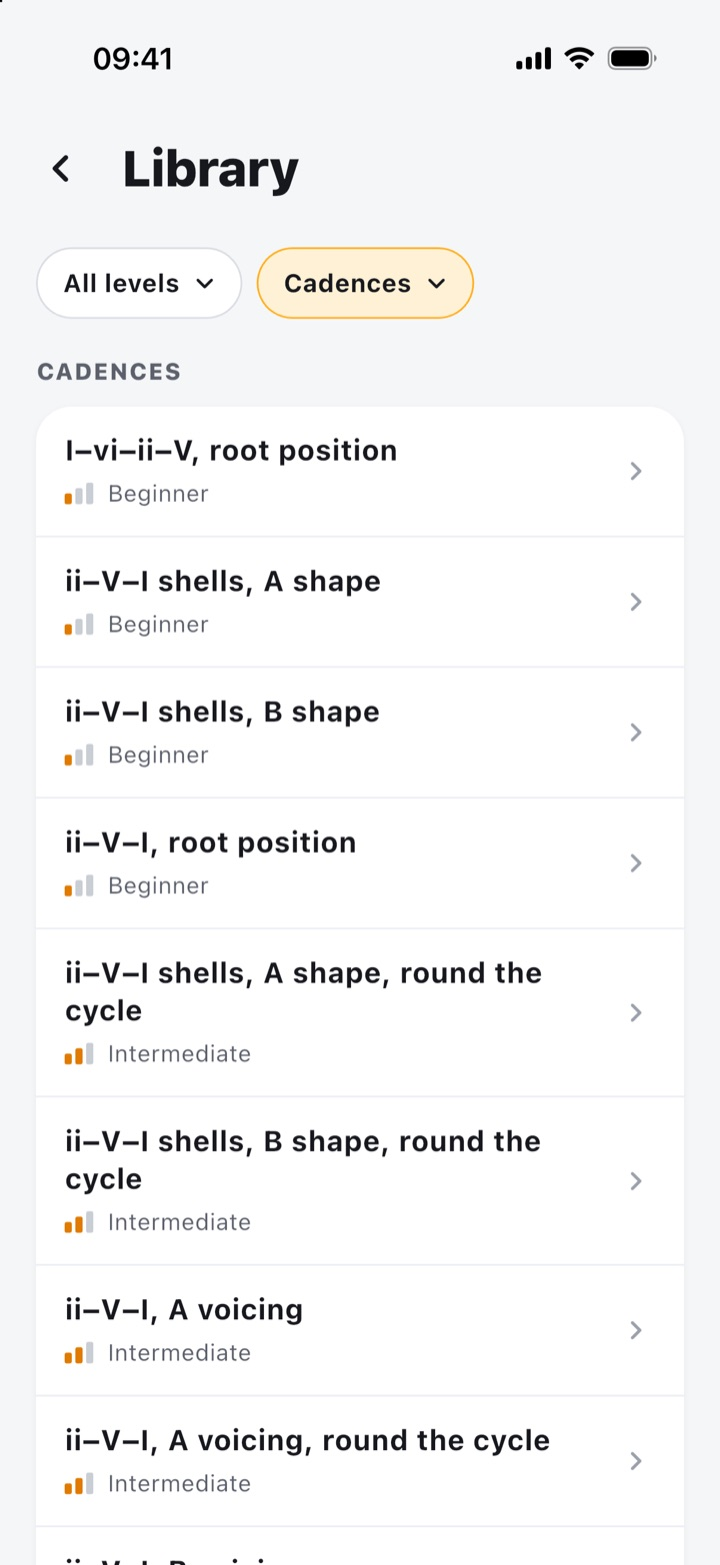
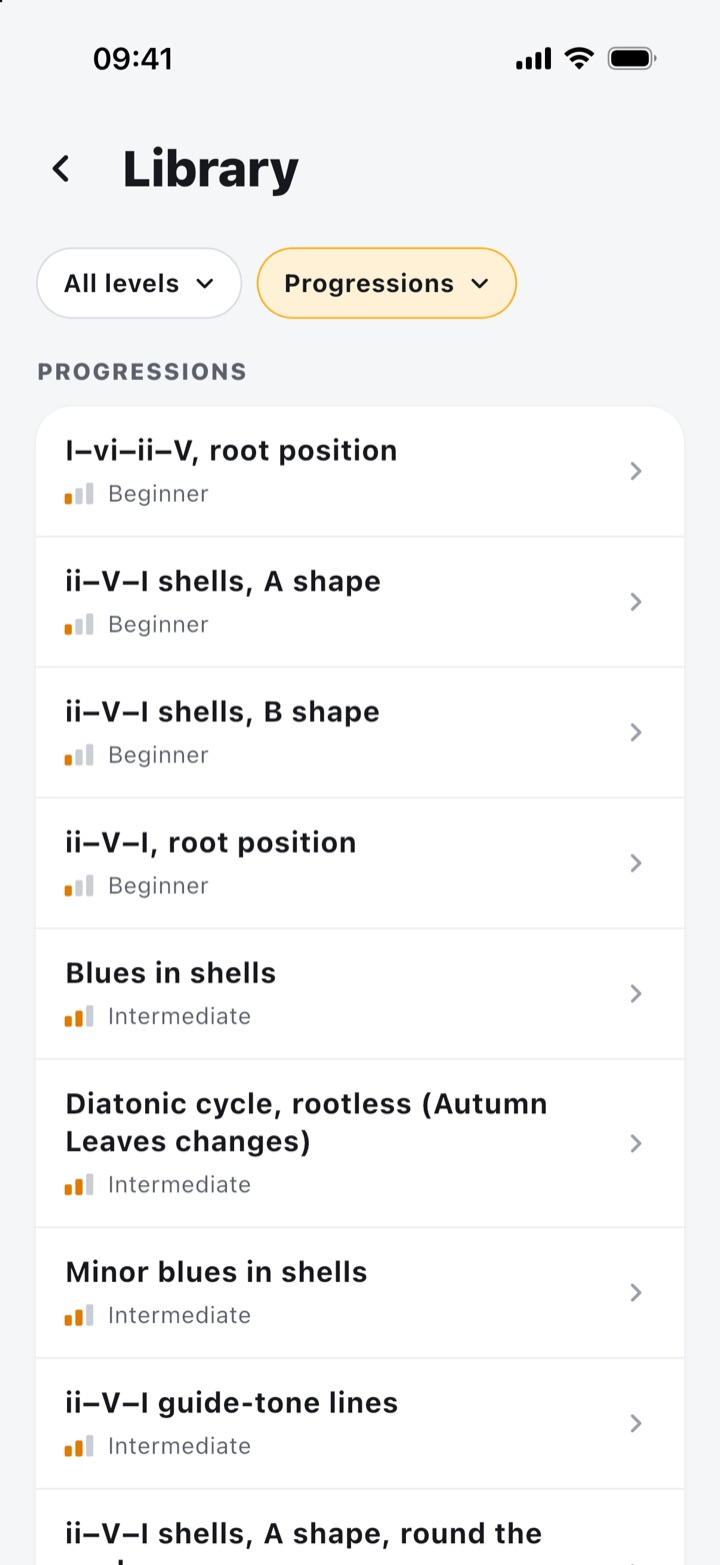
Bring the site up to date with the app: 61 exercises, Progressions
The counters (61 exercises, 15 sets, 18 scale types), the new topics
(bebop and diminished scales, guide tones and enclosures, the blues,
rhythm changes), "progressions" in place of "cadences", and a new
library screenshot showing the Progressions category.

diff --git a/index.html b/index.html
@@ -37,7 +37,7 @@
       "url": "https://daytoneapp.com/",
       "operatingSystem": "iOS",
       "applicationCategory": "EducationalApplication",
-      "description": "Daily piano practice: scales, arpeggios, chords, voicings and jazz cadences such as the ii–V–I, drawn in a new key every time, with a timer and a metronome.",
+      "description": "Daily piano practice: scales, arpeggios, chords, voicings and jazz progressions such as the ii–V–I and the blues, drawn in a new key every time, with a timer and a metronome.",
       "image": "https://daytoneapp.com/assets/img/icon-512.png",
       "screenshot": "https://daytoneapp.com/assets/img/screens/home.jpg"
     }
@@ -143,7 +143,7 @@
           </div>
           <h3>Sets</h3>
           <p>Themed sessions of fixed length: Blue Hour for jazz chords, Bare Bones for two-note shells, High Five for pentatonics and blues, and more.</p>
-          <span class="way__tag">11 sets to start with</span>
+          <span class="way__tag">15 sets to start with</span>
         </article>
         <article class="way reveal" style="--delay:.2s">
           <div class="way__icon" aria-hidden="true">
@@ -209,14 +209,14 @@
       </figure>
       <figure class="screen reveal" style="--delay:.1s">
         <div class="phone"><img src="assets/img/screens/sheet.jpg" width="720" height="1565" loading="lazy" alt="The notes sheet: a iiø–V–i in F minor on a keyboard, the G half-diminished chord in an A voicing."></div>
-        <figcaption><b>The notes</b>Each chord of a cadence, step by step.</figcaption>
+        <figcaption><b>The notes</b>Each chord of a progression, step by step.</figcaption>
       </figure>
       <figure class="screen reveal" style="--delay:.2s">
         <div class="phone"><img src="assets/img/screens/sets.jpg" width="720" height="1565" loading="lazy" alt="The sets: Altered States, Bare Bones, Blue Hour, Drop Zone, High Five and Inside Out."></div>
         <figcaption><b>The sets</b>Curated sessions with a theme.</figcaption>
       </figure>
       <figure class="screen reveal" style="--delay:.3s">
-        <div class="phone"><img src="assets/img/screens/library.jpg" width="720" height="1565" loading="lazy" alt="The library, filtered to cadences: ii–V–I shells, root position, A voicings, round the cycle."></div>
+        <div class="phone"><img src="assets/img/screens/library.jpg" width="720" height="1565" loading="lazy" alt="The library, filtered to progressions: ii–V–I shells and root position, the blues, the diatonic cycle and guide-tone lines."></div>
         <figcaption><b>The library</b>Every exercise, by level and category.</figcaption>
       </figure>
     </div>
@@ -229,15 +229,16 @@
         <h2>From your first scale to altered dominants.</h2>
       </div>
       <div class="numbers">
-        <div class="number reveal"><strong data-count="46">46</strong><span>exercises</span></div>
-        <div class="number reveal" style="--delay:.08s"><strong data-count="11">11</strong><span>themed sets</span></div>
-        <div class="number reveal" style="--delay:.16s"><strong data-count="16">16</strong><span>scale types</span></div>
+        <div class="number reveal"><strong data-count="61">61</strong><span>exercises</span></div>
+        <div class="number reveal" style="--delay:.08s"><strong data-count="15">15</strong><span>themed sets</span></div>
+        <div class="number reveal" style="--delay:.16s"><strong data-count="18">18</strong><span>scale types</span></div>
         <div class="number reveal" style="--delay:.24s"><strong data-count="12">12</strong><span>keys, or every spelling</span></div>
       </div>
       <div class="topics reveal" aria-label="Topics">
         <span>Major and minor scales</span><span>Modes</span><span>Pentatonics and blues</span><span>Altered scale</span>
         <span>Arpeggios</span><span>Inversions</span><span>Block chords</span><span>Drop 2 and drop 3</span>
         <span>Rootless voicings</span><span>Upper structures</span><span>ii–V–I in every voicing</span><span>Round the cycle of fifths</span>
+        <span>Bebop and diminished scales</span><span>Guide tones and enclosures</span><span>Blues, jazz and minor blues</span><span>Rhythm changes</span>
       </div>
     </div>
   </section>

diff --git a/support/index.html b/support/index.html
@@ -71,7 +71,7 @@
     <details>
       <summary>How do I see the notes of a chord or a voicing?</summary>
       <p>Tap the key, scale or chord name, next to the piano icon, before or during an exercise.
-      The keyboard shows the notes as the exercise plays them; for a cadence, step through each
+      The keyboard shows the notes as the exercise plays them; for a progression, step through each
       chord.</p>
     </details>
     <details>
